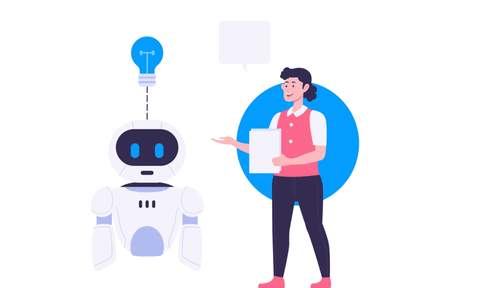
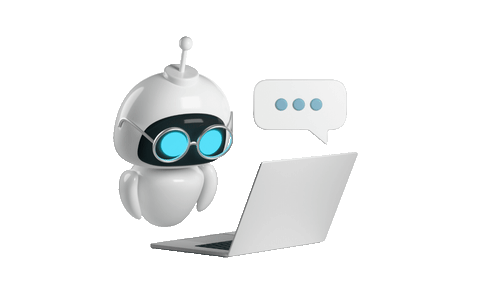
style: update querying robot GIF preserving native transparency

Changed region(s): [[0.1875, 0.125, 0.75, 1.0]]

diff --git a/PROJECT_STATUS.md b/PROJECT_STATUS.md
@@ -59,6 +59,8 @@ Previous update, same day: Assistant — the 4 agentic-chat preview cards now su
 Verified: `npx tsc --noEmit`/`npm run build` clean. **Not yet end-to-end verified against real data** — the migration hasn't been run on the live database yet (Vincent needs to run the one-line SQL above), so the actual "reopen a conversation and see the card again" behavior is code-complete but unconfirmed in production until then; the degrade-gracefully path (column absent) has been reasoned through but not exercised against a real Postgres "unknown column" error from this sandbox.
 
 Previous update, same day: Assistant — reverted the same-day "which engine answered" chat indicator. Vincent asked me to check whether the Anthropic API token/credits had run out; unable to pull Vercel runtime logs (this token's scope doesn't cover them) or test the live endpoint directly (proxy.ts requires a real login session), so as a stopgap I shipped a small amber notice under any reply that came from the rule-based fallback engine instead of Claude, showing the real underlying error when there was one. Vincent's actual preference, stated directly: "很奇怪，我想要的就是（界面上完全看不出区别，回复看起来还是正常的），token 我自己会去看usage" — he wants ZERO visible difference regardless of which engine answers, and will check usage himself via the Anthropic Console. Reverted `app/my-tasks/page.tsx` and `components/AssistantWidget.tsx` back to discarding `engine`/`note` entirely — the API route itself still returns both fields (harmless, unused by the UI), only the display was added and removed. `npx tsc --noEmit`/`npm run build` clean both times.)
+Local querying GIF replacement (2026-09-09): switched to Mid-Autumn Festival (5).gif. Source already has transparent alpha (green is the transparent palette color); preserved alpha instead of white-keying the gray/white robot. Cropped unused canvas (900x850 at 40,70), aspect-fit into 480x288 with transparent padding, retained 240x144 UI size and original-speed infinite loop (~6.67s). Reduced-motion still updated and blue-gray composite checked. Not yet pushed.
+
 
 Local animation replacement (2026-09-09): switched querying GIF to Vincent's Mid-Autumn Festival (4).gif. Cropped the green right/bottom canvas, removed white background with the existing artwork-preserving process, and maintained aspect ratio within the 480x288 asset / 240x144 display. Original 12-second loop retained, reduced-motion still regenerated. Not yet pushed.
 
